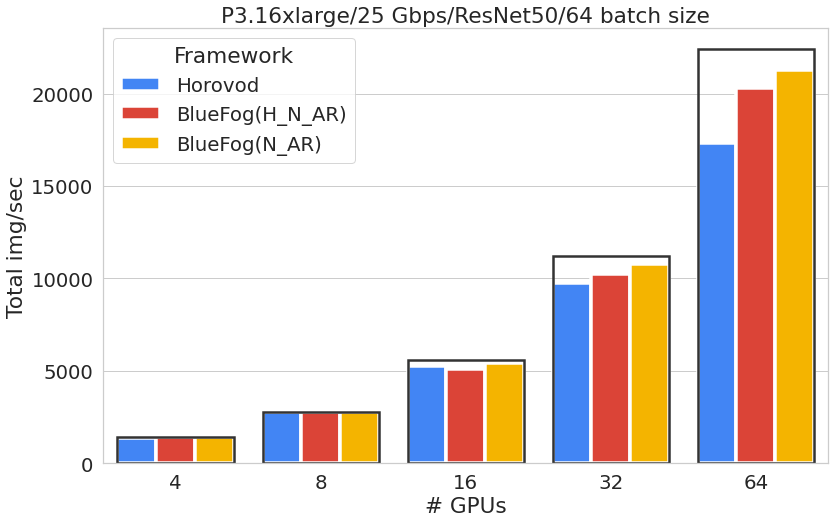
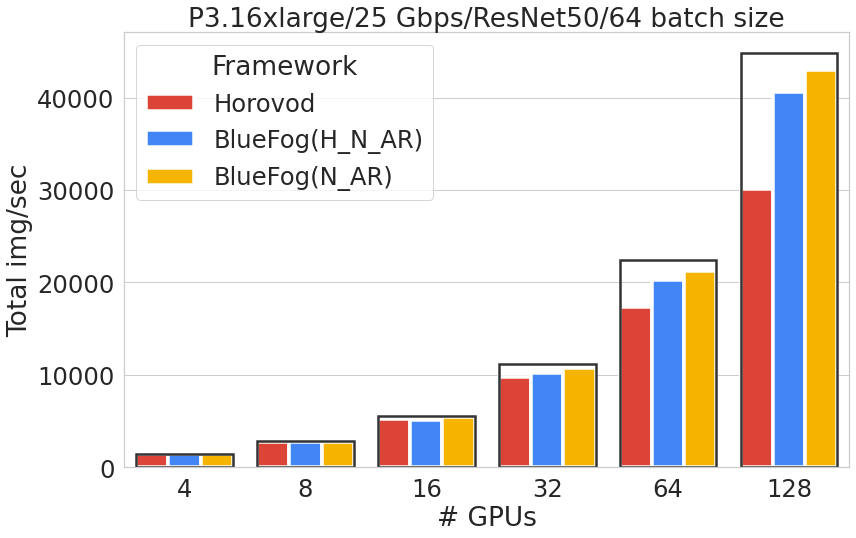
Update performance doc

Changed region(s): [[0.0, 0.0, 0.9964, 0.979], [0.0311, 0.673, 0.1557, 0.7342], [0.3737, 0.9178, 0.4048, 0.9484]]

diff --git a/docs/performance.rst b/docs/performance.rst
@@ -15,7 +15,7 @@ To reproduce the benchmarks, run following command [#]_:
 
     $ bfrun -np 16 -H server1:4,server2:4,server3:4,server4:4 \
         python examples/pytorch_benchmark.py --batch-size 64 \
-            --dist-optimizer=neighbor_allreduce --virtual-topology InnerOuterExp2
+            --dist-optimizer=neighbor_allreduce
 
 At the end of run, you will see the total number of images processed per second like:
 
@@ -42,8 +42,8 @@ benchmarks:
    :align: center
 
 where N\_AR represents the neighbor allreduce optimizer and H\_N\_AR represents the hierarchical_neighbor_allreduce and the black 
-box represents the idea of linear scaling. We can see Bluefog can achieve over 95% scaling efficiency while Horovod is around 78%
-sacling efficiency under a batch size of 64. 
+box represents the idea of linear scaling. We can see Bluefog can achieve over 95% scaling efficiency while Horovod is around 66%
+sacling efficiency under a batch size of 64 on 128 GPUs. 
 
 For more communication intensive case with a batch size of 32, 
 the scaling efficiency between Bluefog and Horovod becomes even larger.
